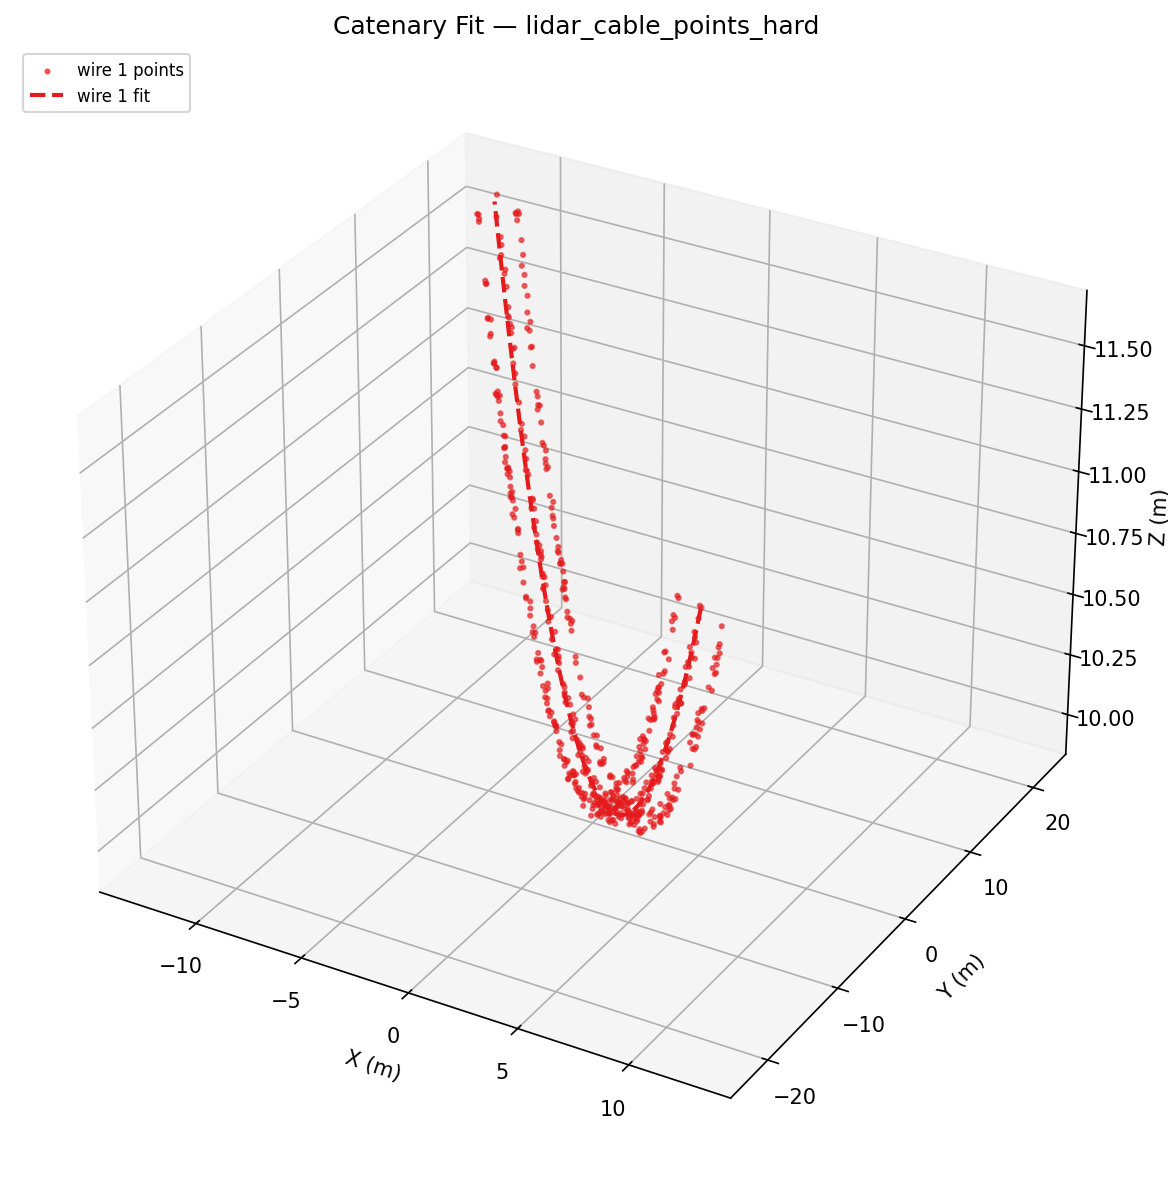
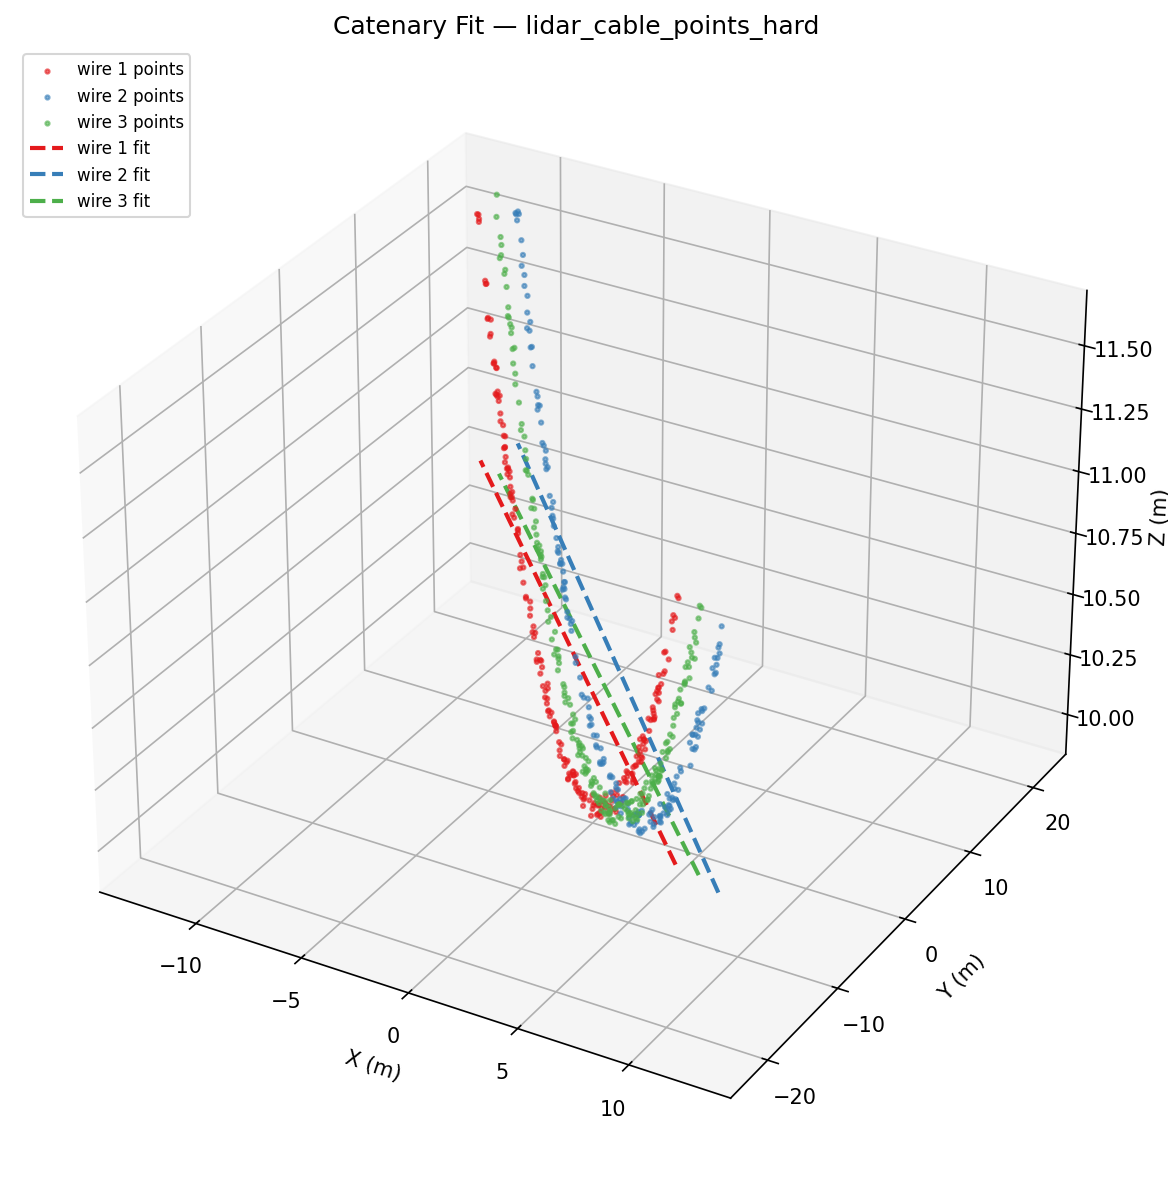
Fixed clustering issue and clarity and updated error messages

Changed region(s): [[0.4315, 0.2188, 0.6164, 0.75], [0.0308, 0.0625, 0.1541, 0.1875], [0.4007, 0.1875, 0.4315, 0.2188]]

diff --git a/lidar_wire_fitting/fitting.py b/lidar_wire_fitting/fitting.py
@@ -8,7 +8,7 @@ class CatenaryFit:
     """Result of fitting a catenary curve to a single wire cluster."""
     x0: float
     y0: float
-    c: float          # sag parameter — small = droopy, large = stiff
+    c: float          # sag parameter: small values mean droopy, large values mean stiff
 
     origin: np.ndarray
     pca_axes: np.ndarray  # shape (2, 3), used to project back to 3D
@@ -25,8 +25,9 @@ def project_to_2d(points: np.ndarray):
     """
     Project a 3D wire cluster into a 2D plane for catenary fitting.
 
-    We use PC1 (wire length direction) and PC3 (sag direction) from SVD —
-    not PC1+PC2, which gave a flat top-down view with no visible sag.
+    Uses PC1 (wire length) and PC3 (sag direction) from SVD. PC1+PC2 was the
+    first attempt, which gave a flat top-down projection with no sag visible at all.
+    PC3 is the right axis because Z variance is tiny compared to the X-Y span.
     """
     origin = points.mean(axis=0)
     centered = points - origin
@@ -39,7 +40,7 @@ def project_to_2d(points: np.ndarray):
 
 
 def fit_catenary(cluster_points: np.ndarray) -> CatenaryFit | None:
-    """Fit a catenary to one wire cluster. Returns None if curve_fit fails."""
+    """Fit a catenary to one wire cluster. Returns None if the fit doesn't converge."""
     if len(cluster_points) < 10:
         print("  Skipping cluster with fewer than 10 points")
         return None
@@ -48,13 +49,13 @@ def fit_catenary(cluster_points: np.ndarray) -> CatenaryFit | None:
     x_proj = coords_2d[:, 0]  # along wire
     y_proj = coords_2d[:, 1]  # sag direction
 
-    # Initial parameter guess
+    # starting guess: curve_fit is quite sensitive to these, so bad values will give wrong answers
     x0_init = float(np.mean(x_proj))
     y0_init = float(np.min(y_proj))
 
     sag = np.max(y_proj) - np.min(y_proj)
     span = np.max(x_proj) - np.min(x_proj)
-    c_init = max(span / max(sag, 0.1), 1.0)
+    c_init = max(span / max(sag, 0.1), 1.0)  # a taut wire gives a large c, a droopy one gives a small c
 
     try:
         popt, _ = curve_fit(

diff --git a/lidar_wire_fitting/clustering.py b/lidar_wire_fitting/clustering.py
@@ -1,19 +1,28 @@
 import numpy as np
 from sklearn.cluster import DBSCAN
-from sklearn.preprocessing import StandardScaler
+from numpy.linalg import svd
 
 
-def cluster_wires(points: np.ndarray, eps: float = 0.5, min_samples: int = 10) -> np.ndarray:
+def cluster_wires(points: np.ndarray, eps: float = 0.1, min_samples: int = 5) -> np.ndarray:
     """
-    Cluster wire points using DBSCAN. Returns label array; -1 = noise.
+    Cluster wire points by projecting onto the cross-wire axis first.
 
-    DBSCAN works better than k-means
+    3D DBSCAN kept merging multiple wires together because the wire separation only
+    exists in one direction (perpendicular to the wire run), so Z was just adding
+    noise to the distance calculation. Instead, we use PCA on X-Y to find that
+    cross-wire direction, then run DBSCAN on that single axis.
+
+    Labels of -1 indicate noise or unassigned points.
     """
-    scaler = StandardScaler()
-    points_scaled = scaler.fit_transform(points)
+    # find the wire direction from the X-Y spread
+    origin = points[:, :2].mean(axis=0)
+    centered_xy = points[:, :2] - origin
+    _, _, Vt = svd(centered_xy, full_matrices=False)
 
-    db = DBSCAN(eps=eps, min_samples=min_samples)
-    labels = db.fit_predict(points_scaled)
+    # PC2 is perpendicular to the wire — the axis that actually separates them
+    cross_wire = (centered_xy @ Vt[1]).reshape(-1, 1)
+
+    labels = DBSCAN(eps=eps, min_samples=min_samples).fit_predict(cross_wire)
 
     n_clusters = len(set(labels)) - (1 if -1 in labels else 0)
     n_noise = np.sum(labels == -1)

diff --git a/scripts/run_pipeline.py b/scripts/run_pipeline.py
@@ -67,9 +67,9 @@ def process_file(filepath: str, save_plots: bool = False, output_dir: str = "out
 
 def main():
     parser = argparse.ArgumentParser(description="Fit catenary models to LiDAR wire data")
-    parser.add_argument("--input", required=True, help="Path to a .parquet file or directory of .parquet files")
-    parser.add_argument("--save-plots", action="store_true", help="Save plots to output/ instead of displaying")
-    parser.add_argument("--output-dir", default="output", help="Directory to save plots (default: output/)")
+    parser.add_argument("--input", required=True, help="path to a .parquet file, or a directory of them")
+    parser.add_argument("--save-plots", action="store_true", help="save plots to disk instead of popping up a window")
+    parser.add_argument("--output-dir", default="output", help="where to save plots (default: output/)")
     args = parser.parse_args()
 
     input_path = Path(args.input)

diff --git a/lidar_wire_fitting/loader.py b/lidar_wire_fitting/loader.py
@@ -14,7 +14,7 @@ def load_point_cloud(filepath: str) -> np.ndarray:
     required_cols = ["x", "y", "z"]
     for col in required_cols:
         if col not in df.columns:
-            raise ValueError(f"Expected column '{col}' not found. Got: {list(df.columns)}")
+            raise ValueError(f"Missing column '{col}'. Columns in file: {list(df.columns)}")
 
     points = df[required_cols].to_numpy(dtype=np.float64)
 

diff --git a/lidar_wire_fitting/visualisation.py b/lidar_wire_fitting/visualisation.py
@@ -71,7 +71,7 @@ def plot_results(
 
 def print_fit_summary(fits: list, file_name: str):
     """Print a quick summary of the fitting results to stdout."""
-    print(f"\n--- Results for {file_name} ---")
+    print(f"\nResults for {file_name}")
     valid_fits = [f for f in fits if f is not None]
     print(f"Wires detected: {len(valid_fits)}")
     for i, fit in enumerate(valid_fits):
